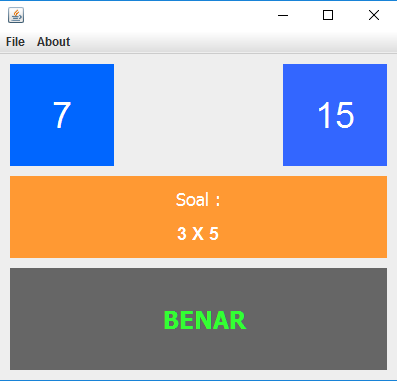
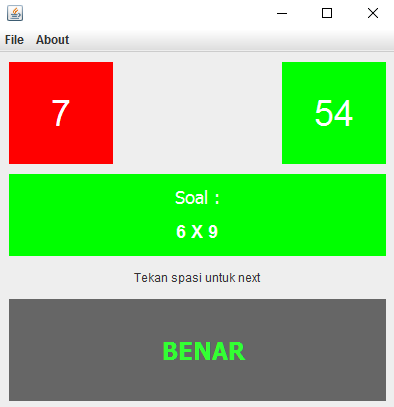
update feature

diff --git a/src/Form1.java b/src/Form1.java
@@ -1,4 +1,5 @@
 
+import java.awt.Color;
 import java.awt.event.KeyEvent;
 import java.awt.event.KeyListener;
 
@@ -43,6 +44,12 @@ public class Form1 extends javax.swing.JFrame implements KeyListener {
             tv_1.setText(String.valueOf(random));
         }
         tv_soal.setText(String.valueOf(ask1+" X "+ask2));
+//        panel3.setBackground(Color.blue);
+        tv_space.setVisible(false);
+        panel1.setBackground(Color.blue);
+        panel2.setBackground(Color.blue);
+        panel3.setBackground(Color.orange);
+        tv_soal.setBackground(Color.orange);
     }
 
     /**
@@ -64,6 +71,7 @@ public class Form1 extends javax.swing.JFrame implements KeyListener {
         jLabel1 = new javax.swing.JLabel();
         panel4 = new java.awt.Panel();
         tv_jawaban = new javax.swing.JLabel();
+        tv_space = new java.awt.Label();
         jMenuBar2 = new javax.swing.JMenuBar();
         jMenu3 = new javax.swing.JMenu();
         jMenuItem2 = new javax.swing.JMenuItem();
@@ -187,6 +195,9 @@ public class Form1 extends javax.swing.JFrame implements KeyListener {
                 .addContainerGap())
         );
 
+        tv_space.setAlignment(java.awt.Label.CENTER);
+        tv_space.setText("Tekan spasi untuk next");
+
         jMenu3.setText("File");
 
         jMenuItem2.setAccelerator(javax.swing.KeyStroke.getKeyStroke(java.awt.event.KeyEvent.VK_F4, java.awt.event.InputEvent.ALT_MASK));
@@ -217,7 +228,8 @@ public class Form1 extends javax.swing.JFrame implements KeyListener {
                         .addComponent(panel1, javax.swing.GroupLayout.PREFERRED_SIZE, javax.swing.GroupLayout.DEFAULT_SIZE, javax.swing.GroupLayout.PREFERRED_SIZE)
                         .addPreferredGap(javax.swing.LayoutStyle.ComponentPlacement.RELATED, 169, Short.MAX_VALUE)
                         .addComponent(panel2, javax.swing.GroupLayout.PREFERRED_SIZE, javax.swing.GroupLayout.DEFAULT_SIZE, javax.swing.GroupLayout.PREFERRED_SIZE))
-                    .addComponent(panel4, javax.swing.GroupLayout.DEFAULT_SIZE, javax.swing.GroupLayout.DEFAULT_SIZE, Short.MAX_VALUE))
+                    .addComponent(panel4, javax.swing.GroupLayout.DEFAULT_SIZE, javax.swing.GroupLayout.DEFAULT_SIZE, Short.MAX_VALUE)
+                    .addComponent(tv_space, javax.swing.GroupLayout.DEFAULT_SIZE, javax.swing.GroupLayout.DEFAULT_SIZE, Short.MAX_VALUE))
                 .addContainerGap())
         );
         layout.setVerticalGroup(
@@ -229,6 +241,8 @@ public class Form1 extends javax.swing.JFrame implements KeyListener {
                     .addComponent(panel1, javax.swing.GroupLayout.PREFERRED_SIZE, javax.swing.GroupLayout.DEFAULT_SIZE, javax.swing.GroupLayout.PREFERRED_SIZE))
                 .addPreferredGap(javax.swing.LayoutStyle.ComponentPlacement.RELATED)
                 .addComponent(panel3, javax.swing.GroupLayout.PREFERRED_SIZE, javax.swing.GroupLayout.DEFAULT_SIZE, javax.swing.GroupLayout.PREFERRED_SIZE)
+                .addPreferredGap(javax.swing.LayoutStyle.ComponentPlacement.RELATED)
+                .addComponent(tv_space, javax.swing.GroupLayout.PREFERRED_SIZE, javax.swing.GroupLayout.DEFAULT_SIZE, javax.swing.GroupLayout.PREFERRED_SIZE)
                 .addPreferredGap(javax.swing.LayoutStyle.ComponentPlacement.RELATED, javax.swing.GroupLayout.DEFAULT_SIZE, Short.MAX_VALUE)
                 .addComponent(panel4, javax.swing.GroupLayout.PREFERRED_SIZE, javax.swing.GroupLayout.DEFAULT_SIZE, javax.swing.GroupLayout.PREFERRED_SIZE)
                 .addContainerGap())
@@ -278,6 +292,7 @@ public class Form1 extends javax.swing.JFrame implements KeyListener {
     private javax.swing.JLabel tv_2;
     private javax.swing.JLabel tv_jawaban;
     private java.awt.Label tv_soal;
+    private java.awt.Label tv_space;
     // End of variables declaration//GEN-END:variables
 
     @Override
@@ -293,20 +308,43 @@ public class Form1 extends javax.swing.JFrame implements KeyListener {
             if(isRandom){
                 System.out.println("BENAR");
                 tv_jawaban.setText("BENAR");
+                panel1.setBackground(Color.green);
+                panel2.setBackground(Color.red);
+                panel3.setBackground(Color.green);
+                tv_soal.setBackground(Color.green);
             }else{
                 System.out.println("SALAH");
                 tv_jawaban.setText("SALAH");
+                panel1.setBackground(Color.red);
+                panel2.setBackground(Color.green);
+                panel3.setBackground(Color.red);
+                tv_soal.setBackground(Color.red);
             }
+            tv_space.setVisible(true);
         }
         
         if (key == KeyEvent.VK_RIGHT) {
             if(isRandom){                
                 System.out.println("SALAH");
                 tv_jawaban.setText("SALAH");
+                panel2.setBackground(Color.red);
+                panel1.setBackground(Color.green);
+                panel3.setBackground(Color.red);
+                tv_soal.setBackground(Color.red);
             }else{
                 System.out.println("BENAR");
                 tv_jawaban.setText("BENAR");
+                panel2.setBackground(Color.green);
+                panel1.setBackground(Color.red);
+                panel3.setBackground(Color.green);
+                tv_soal.setBackground(Color.green);
             }
+            
+            tv_space.setVisible(true);
+        }
+        
+        if( key == KeyEvent.VK_SPACE){
+            initNew();
         }
         
         if (key == KeyEvent.VK_UP) {
@@ -317,7 +355,7 @@ public class Form1 extends javax.swing.JFrame implements KeyListener {
             System.out.println("DOWN");
         }
                 
-        initNew();
+//        initNew();
     }
 
     @Override
